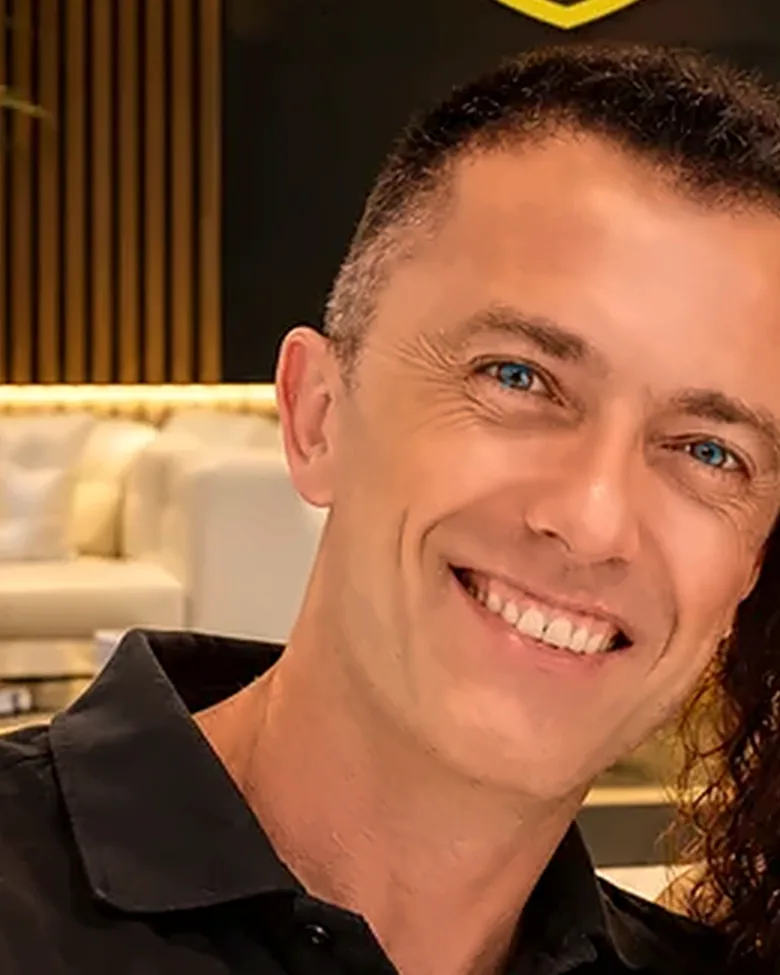
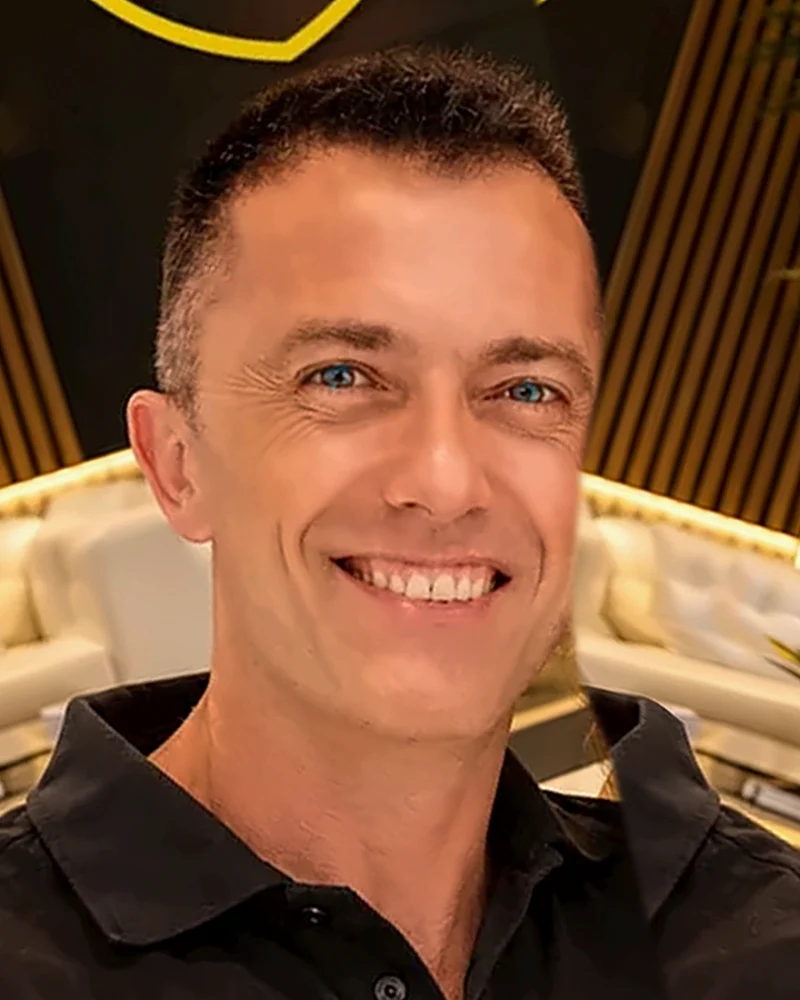
Equipo: opción B (tarjetas negras), currículums equilibrados, cifras pequeñas y fotos de Matías y Silvia retocadas
Claude-Session: https://claude.ai/code/session_01NkzjF1a7K3wJ8x3QTu1TeR

diff --git a/index.html b/index.html
@@ -156,15 +156,22 @@
   .team{display:grid;grid-template-columns:repeat(3,1fr);gap:26px;margin-top:38px}
   @media(max-width:900px){.team{grid-template-columns:1fr 1fr}}
   @media(max-width:600px){.team{grid-template-columns:1fr}}
-  .member{background:#fff;border:1px solid var(--line);border-radius:16px;overflow:hidden;box-shadow:0 3px 0 var(--yellow);display:flex;flex-direction:column}
+  .member{background:#0d0d0d;border:1px solid #232323;border-top:4px solid var(--yellow);border-radius:16px;overflow:hidden;display:flex;flex-direction:column}
   .ph{aspect-ratio:4/4.4;background:linear-gradient(160deg,#242424,#0d0d0d);position:relative;display:grid;place-items:center}
   .ph b{font:700 96px 'Oswald';color:var(--yellow);line-height:1}
   .ph i{position:absolute;bottom:12px;left:14px;font-size:11px;color:#8a8a82;font-style:normal}
-  .member .body{padding:22px;display:flex;flex-direction:column;gap:10px;flex:1}
-  .member h3{font-size:24px}
-  .member .mname{background:var(--black,#0d0d0d);color:var(--yellow);font:600 22px/1 'Oswald';letter-spacing:.06em;text-transform:uppercase;text-align:center;padding:16px 12px;border-bottom:3px solid var(--yellow);margin:0}
+  .member .body{padding:22px 24px 24px;display:flex;flex-direction:column;gap:12px;flex:1}
+  .member h3{font-size:26px;color:var(--yellow);white-space:nowrap}
+  .member .role{color:#fff;opacity:.85}
   .role{color:#a88a00;font-weight:600;font-size:12px;letter-spacing:.14em;text-transform:uppercase}
-  .member p{margin:0;color:var(--muted);font-size:14.5px}
+  .member p{margin:0;color:#bdbdb5;font-size:14.5px;line-height:1.6}
+  .member .stats{display:flex;flex-wrap:wrap;gap:6px}
+  .member .stats span{border:1px solid #2e2e2e;background:#181818;border-radius:99px;padding:3px 10px;font-size:11.5px;color:#cfcfc8}
+  .member .stats b{color:var(--yellow);font:600 13px 'Oswald';margin-right:2px}
+  .member .cv{margin:0;padding:0;list-style:none;font-size:13.5px;line-height:1.45}
+  .member .cv li{padding:7px 0 7px 18px;position:relative;border-bottom:1px solid #222;color:#e6e6e0}
+  .member .cv li:before{content:"";position:absolute;left:0;top:14px;width:7px;height:7px;background:var(--yellow);transform:rotate(45deg)}
+  .member .btn{margin-top:auto;text-align:center;padding:13px 10px;font-size:12.5px}
   .chips{display:flex;gap:6px;flex-wrap:wrap}
   .chips span{border:1.5px dashed var(--line);border-radius:99px;padding:3px 11px;font-size:12px;color:var(--muted)}
   .todo{font-style:italic}
@@ -1461,31 +1468,50 @@ html,body{overflow-x:clip}
     <p class="lead">Tres entrenadores, un mismo método. Por la mañana, uno a uno. Por la tarde, un entrenador para dos clientes.</p>
     <div class="team">
       <article class="member">
-        <h3 class="mname">Matías Torres</h3>
-        <div class="ph ph-img"><img src="fotos/equipo-matias.webp?v=7" width="780" height="975" alt="Matías Torres, fundador y entrenador personal, sonriendo con el polo del centro" loading="lazy" decoding="async"></div>
+        <div class="ph ph-img"><img src="fotos/equipo-matias.webp?v=8" width="800" height="1000" alt="Matías Torres, fundador y entrenador personal, sonriendo en la sala con el polo del centro" loading="lazy" decoding="async"></div>
         <div class="body">
           <span class="role">Fundador · Entrenador personal</span>
-          <p>25 años como entrenador personal, 15 de ellos en Orihuela, donde fue pionero del entrenamiento personal. Especialista en readaptación de lesiones, rehabilitación y alto rendimiento. Profesor de pilates avanzado, con más de 20 titulaciones.</p>
-          <div class="chips"><span>Readaptación de lesiones</span><span>Alto rendimiento</span><span>Pilates</span></div>
-          <a class="btn dark" style="text-align:center;margin-top:auto" href="#reservar">Reservar valoración con Matías</a>
+          <h3>Matías Torres</h3>
+          <div class="stats"><span><b>25</b> años</span><span><b>15</b> en Orihuela</span><span><b>32</b> titulaciones</span><span><b>+120</b> preparaciones</span></div>
+          <p>Pionero del entrenamiento personal en Orihuela. Deportistas de alto rendimiento, rehabilitación, embarazo y posparto: lo ha entrenado todo.</p>
+          <ul class="cv">
+            <li>Técnico Superior y Coach en Entrenamiento Personal</li>
+            <li>Rehabilitación y readaptación de lesiones</li>
+            <li>Fuerza, musculación e hipertrofia</li>
+            <li>Embarazo y posparto, mayores y obesidad</li>
+            <li>Nutrición deportiva y biomecánica aplicada</li>
+          </ul>
+          <a class="btn" href="#reservar">Reservar valoración con Matías</a>
         </div>
       </article>
       <article class="member">
-        <h3 class="mname">Silvia Lorenzo</h3>
-        <div class="ph ph-img"><img src="fotos/equipo-silvia.webp?v=7" width="649" height="811" alt="Silvia Lorenzo, entrenadora personal del centro, sonriendo con la camiseta del escudo" loading="lazy" decoding="async"></div>
+        <div class="ph ph-img"><img src="fotos/equipo-silvia.webp?v=8" width="800" height="1000" alt="Silvia Lorenzo, entrenadora personal del centro, sonriendo en la sala" loading="lazy" decoding="async"></div>
         <div class="body">
           <span class="role">Entrenadora personal · Mañanas</span>
-          <p>Te entrena por las mañanas y se encarga de que todo funcione: tus horarios, tus citas y cada detalle de la sala. Cercana, exigente y pendiente de ti.</p>
-          <div class="chips"><span>Entrenamiento personal</span><span>Mañanas</span></div>
+          <h3>Silvia Lorenzo</h3>
+          <p>Te entrena por las mañanas y se encarga de que todo funcione al milímetro: tus horarios, tus citas y cada detalle de la sala. Cercana, exigente y pendiente de ti.</p>
+          <ul class="cv">
+            <li>Más de 25 años de experiencia en el sector</li>
+            <li>Entrenadora personal</li>
+            <li>Entrenamiento en patologías</li>
+            <li>Coreógrafa y monitora de fitness</li>
+            <li>Formada por Matías: mismo método, misma atención uno a uno</li>
+          </ul>
         </div>
       </article>
       <article class="member">
-        <h3 class="mname">Alex Rivera</h3>
         <div class="ph ph-logo"><img src="escudo.webp?v=6" width="400" height="384" alt="" loading="lazy" decoding="async"></div>
         <div class="body">
           <span class="role">Entrenador personal · Tardes</span>
-          <p>Empezó como cliente del centro y hoy entrena contigo por las tardes. Formado por Matías, con el mismo método y la misma atención personal.</p>
-          <div class="chips"><span>Entrenamiento personal</span><span>Tardes</span></div>
+          <h3>Alejandro Rivera</h3>
+          <p>Te entrena por las tardes. Atento, empatiza muchísimo con la gente y está pendiente de cada detalle. Formado por Matías, con el mismo método y la misma atención.</p>
+          <ul class="cv">
+            <li>Entrenador personal</li>
+            <li>Entrenamiento en patologías</li>
+            <li>Entrenamiento de alto rendimiento</li>
+            <li>Masajista deportivo de ciclistas profesionales</li>
+            <li>Técnico en radiología</li>
+          </ul>
         </div>
       </article>
     </div>
